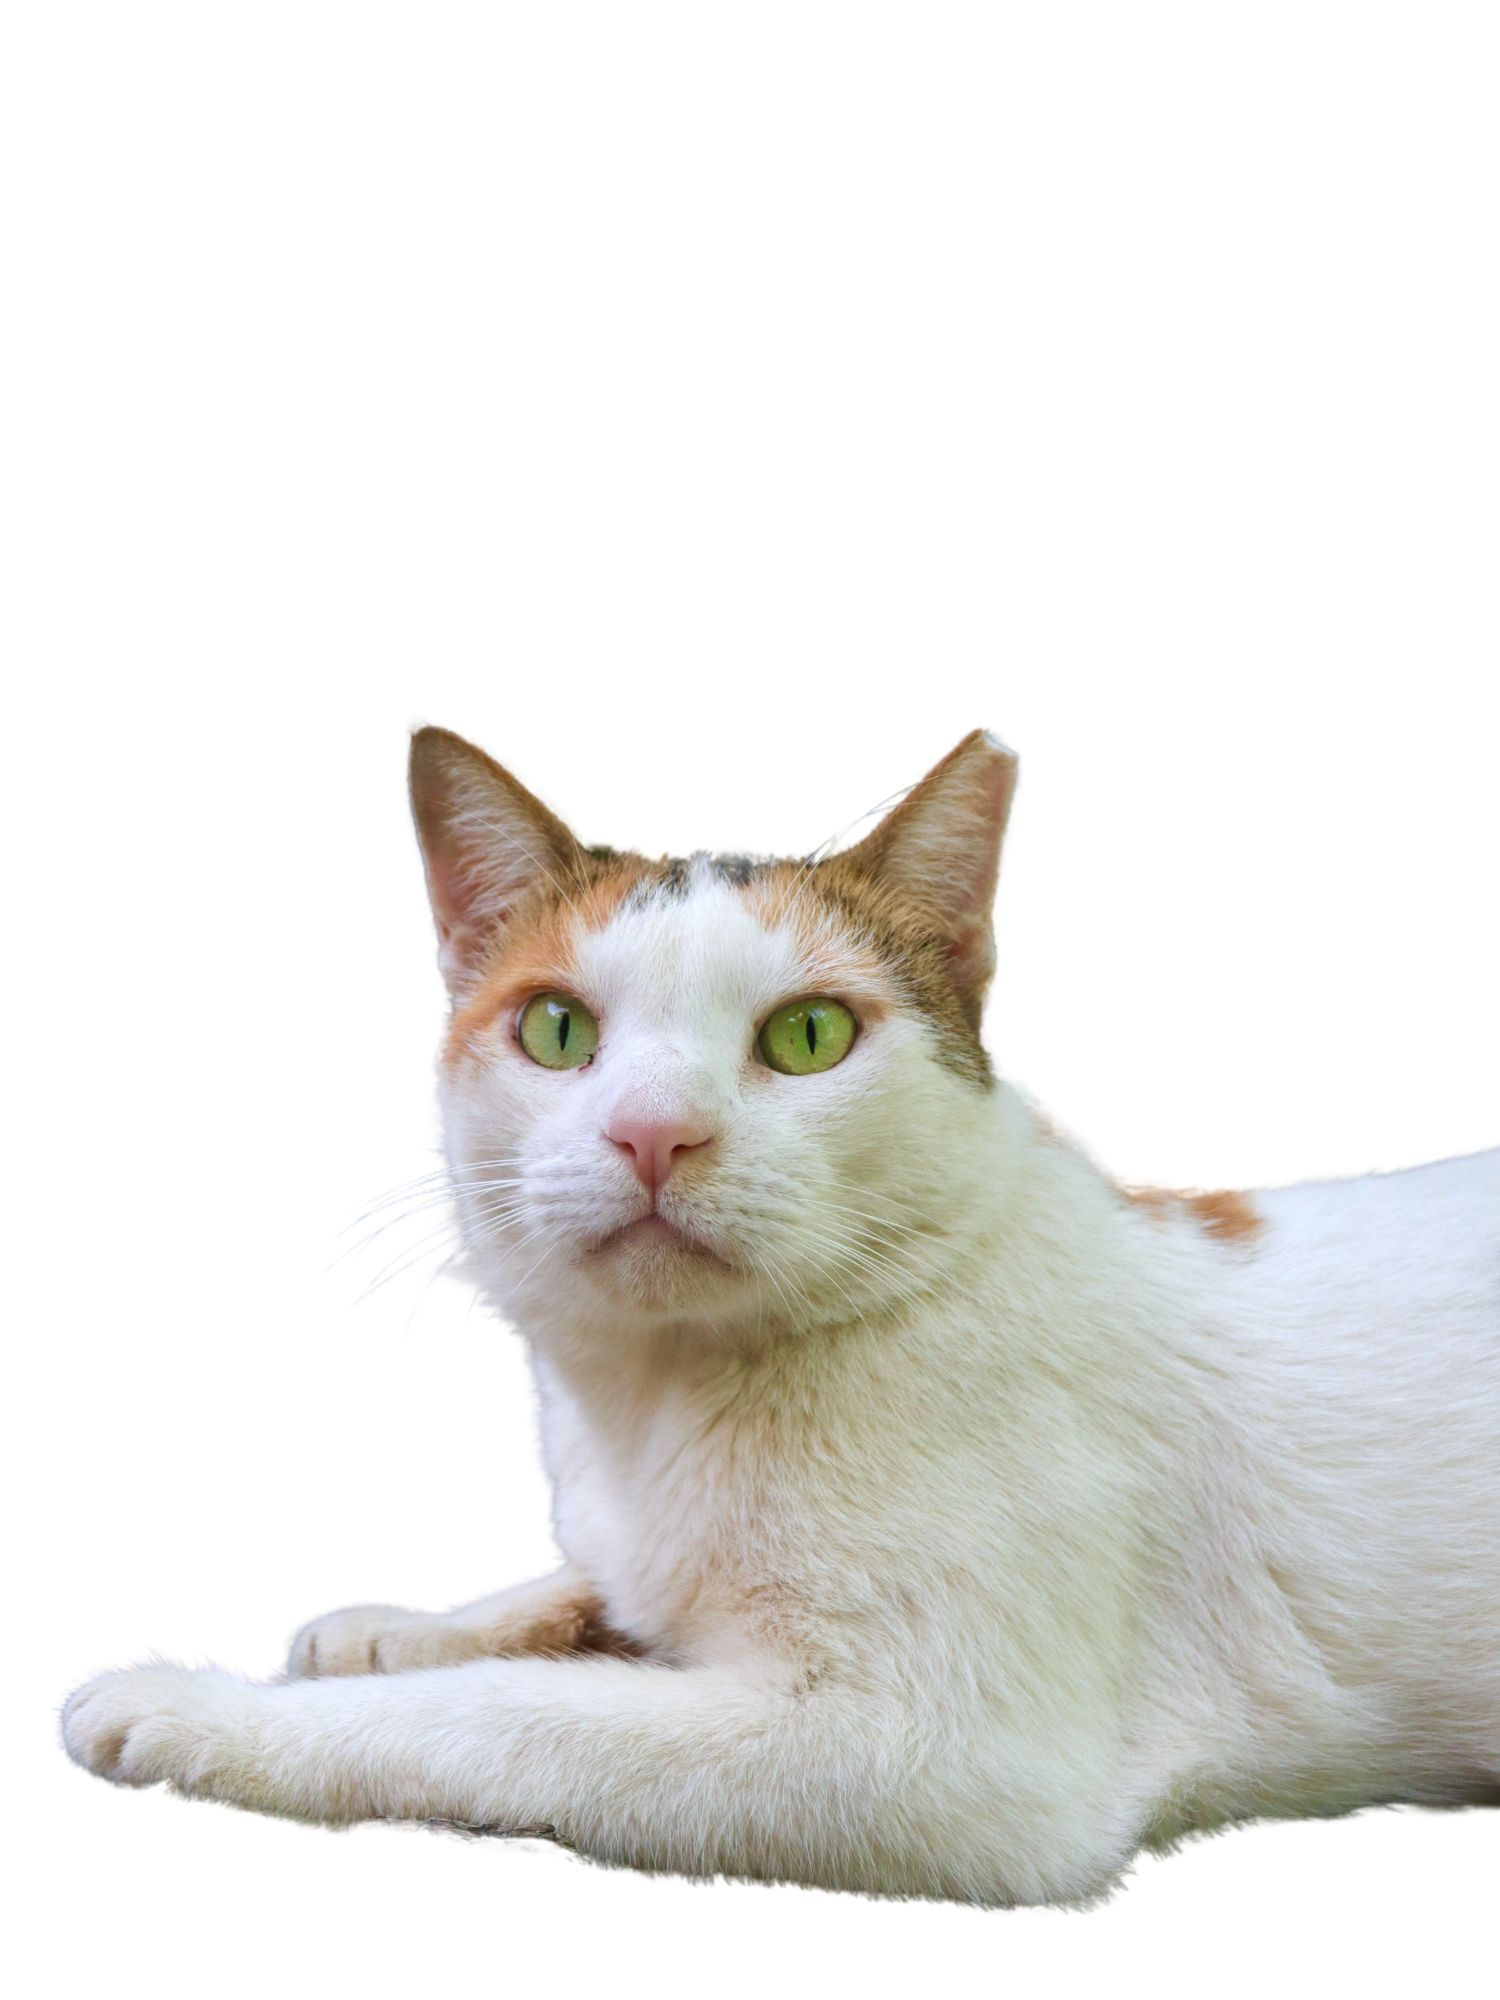
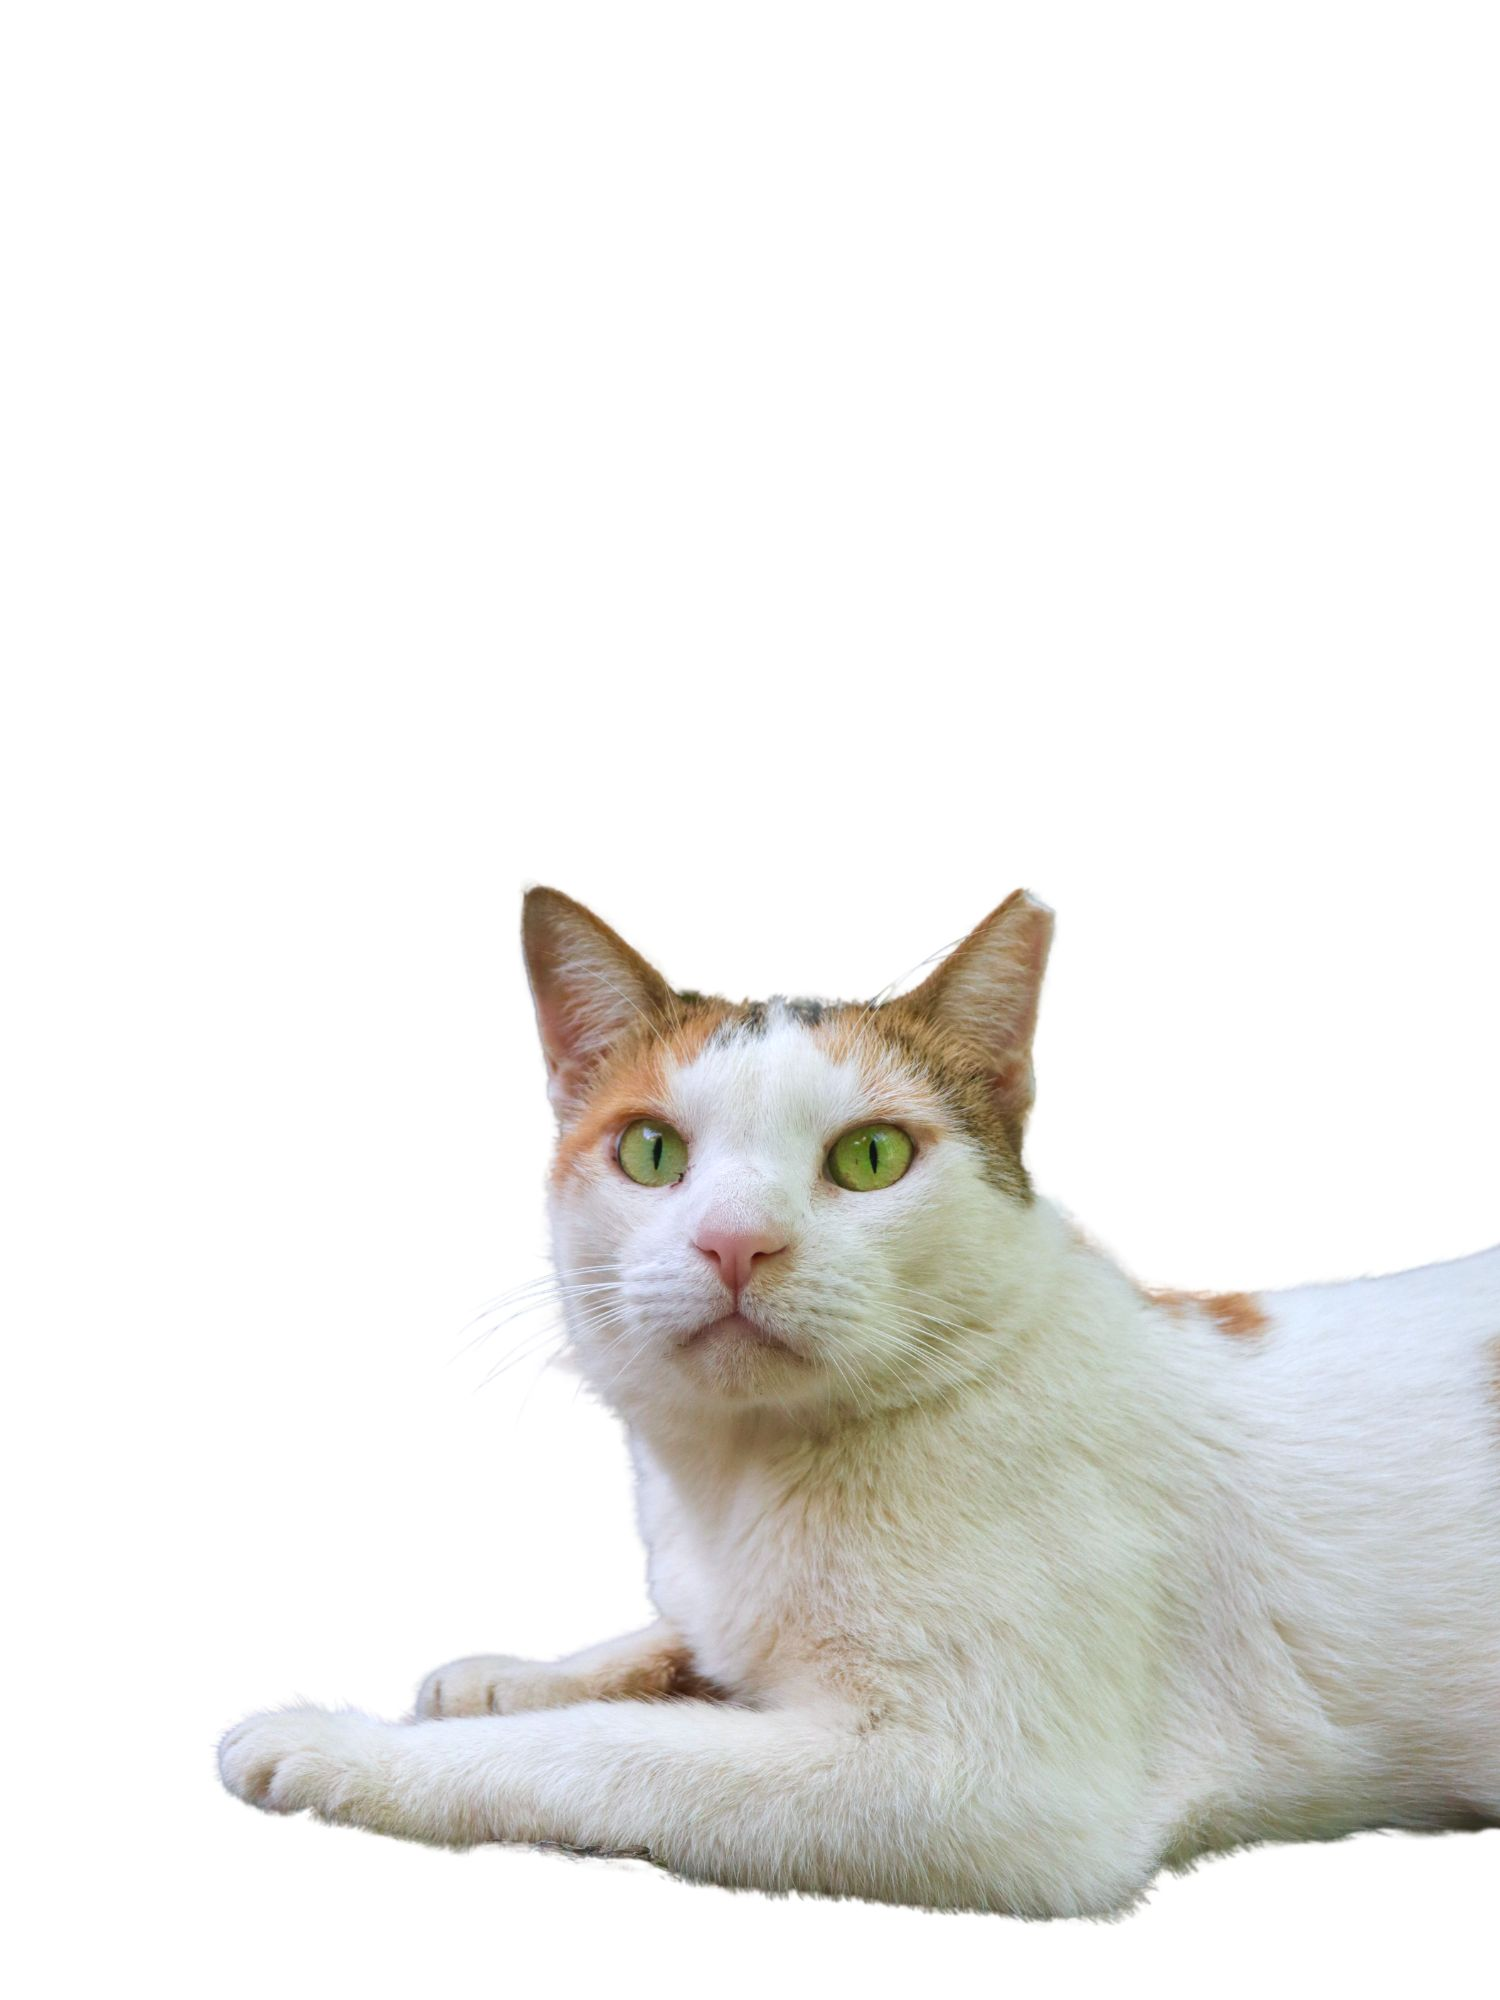
Added Nishant!

Changed region(s): [[0.0307, 0.341, 1.0, 0.961]]

diff --git a/team.html b/team.html
@@ -293,17 +293,17 @@
           class="face-name"
         >
           <img
-            src="./images/placeholderCat-min.png"
+            src="./images/nishant.jpeg"
             loading="lazy"
             id="w-node-_59e724df-c455-1f34-5620-c592b140d57d-55a31f32"
             sizes="(max-width: 479px) 100vw, (max-width: 767px) 82vw, (max-width: 991px) 86vw, (max-width: 3183px) 95vw, 3024px"
             srcset="
-                ./images/placeholderCat-min.png 500w,
-                ./images/placeholderCat-min.png 800w,
-                ./images/placeholderCat-min.png 1080w,
-                ./images/placeholderCat-min.png 1600w,
-                ./images/placeholderCat-min.png 2000w,
-                ./images/placeholderCat-min.png 3024w
+                ./images/nishant.jpeg 500w,
+                ./images/nishant.jpeg 800w,
+                ./images/nishant.jpeg 1080w,
+                ./images/nishant.jpeg 1600w,
+                ./images/nishant.jpeg 2000w,
+                ./images/nishant.jpeg 3024w
             "
             alt="Head Empty."
             class="face"
